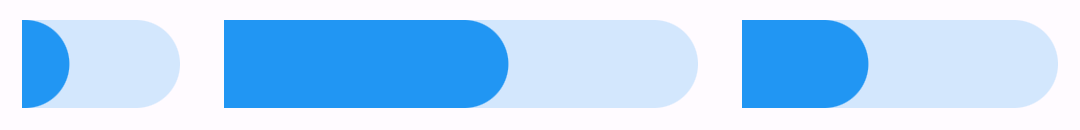
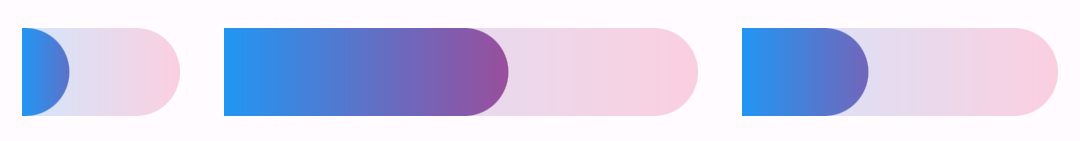
Added different colors and gradients to examples

diff --git a/example/lib/main.dart b/example/lib/main.dart
@@ -185,7 +185,8 @@ class _MyHomePageState extends State<MyHomePage> {
               SegmentedProgressBar(
                 segments: const [1, 3, 2],
                 values: const [0.3, 0.6, 0.4],
-                color: Colors.blue,
+                gradient:
+                    const LinearGradient(colors: [Colors.blue, Colors.pink]),
                 thickness: 32,
                 spacing: 16,
                 radius:
@@ -195,7 +196,11 @@ class _MyHomePageState extends State<MyHomePage> {
               SegmentedProgressBar(
                 segments: const [2, 2, 3],
                 values: const [0.7, 0.5, 0.4],
-                color: Colors.green,
+                gradients: const [
+                  LinearGradient(colors: [Colors.green, Colors.black]),
+                  LinearGradient(colors: [Colors.orange, Colors.yellow]),
+                  LinearGradient(colors: [Colors.red, Colors.blue]),
+                ],
                 thickness: 16,
                 spacing: 12,
                 radius: const BorderRadius.only(
@@ -208,6 +213,7 @@ class _MyHomePageState extends State<MyHomePage> {
                 segments: const [1, 2, 1, 3],
                 values: const [0.8, 0.2, 0.5, 0.1],
                 color: Colors.purple,
+                backgroundColor: Colors.teal,
                 thickness: 4,
                 spacing: 24,
               ),
@@ -215,7 +221,12 @@ class _MyHomePageState extends State<MyHomePage> {
               SegmentedProgressBar(
                 segments: const [1, 2, 1, 3],
                 values: const [0.8, 0.2, 0.5, 0.1],
-                color: Colors.teal,
+                colors: const [
+                  Colors.teal,
+                  Colors.deepPurple,
+                  Colors.amber,
+                  Colors.pink,
+                ],
                 thickness: 4,
                 spacing: 0,
                 radius: BorderRadius.zero,

diff --git a/README.md b/README.md
@@ -63,7 +63,7 @@ SegmentedProgressBar(
 SegmentedProgressBar(
     segments: const [1, 3, 2],
     values: const [0.3, 0.6, 0.4],
-    color: Colors.blue,
+    gradient: const LinearGradient(colors: [Colors.blue, Colors.pink]),
     thickness: 32,
     spacing: 16,
     radius: const BorderRadius.horizontal(right: Radius.circular(20)),
@@ -75,7 +75,11 @@ SegmentedProgressBar(
 SegmentedProgressBar(
     segments: const [2, 2, 3],
     values: const [0.7, 0.5, 0.4],
-    color: Colors.green,
+    gradients: const [
+        LinearGradient(colors: [Colors.green, Colors.black]),
+        LinearGradient(colors: [Colors.orange, Colors.yellow]),
+        LinearGradient(colors: [Colors.red, Colors.blue]),
+    ],
     thickness: 16,
     spacing: 12,
     radius: const BorderRadius.only(
@@ -91,6 +95,7 @@ SegmentedProgressBar(
     segments: const [1, 2, 1, 3],
     values: const [0.8, 0.2, 0.5, 0.1],
     color: Colors.purple,
+    backgroundColor: Colors.teal,
     thickness: 4,
     spacing: 24,
 )
@@ -101,7 +106,12 @@ SegmentedProgressBar(
 SegmentedProgressBar(
     segments: const [1, 2, 1, 3],
     values: const [0.8, 0.2, 0.5, 0.1],
-    color: Colors.teal,
+    colors: const [
+        Colors.teal,
+        Colors.deepPurple,
+        Colors.amber,
+        Colors.pink,
+    ],
     thickness: 4,
     spacing: 0,
     radius: BorderRadius.zero,
